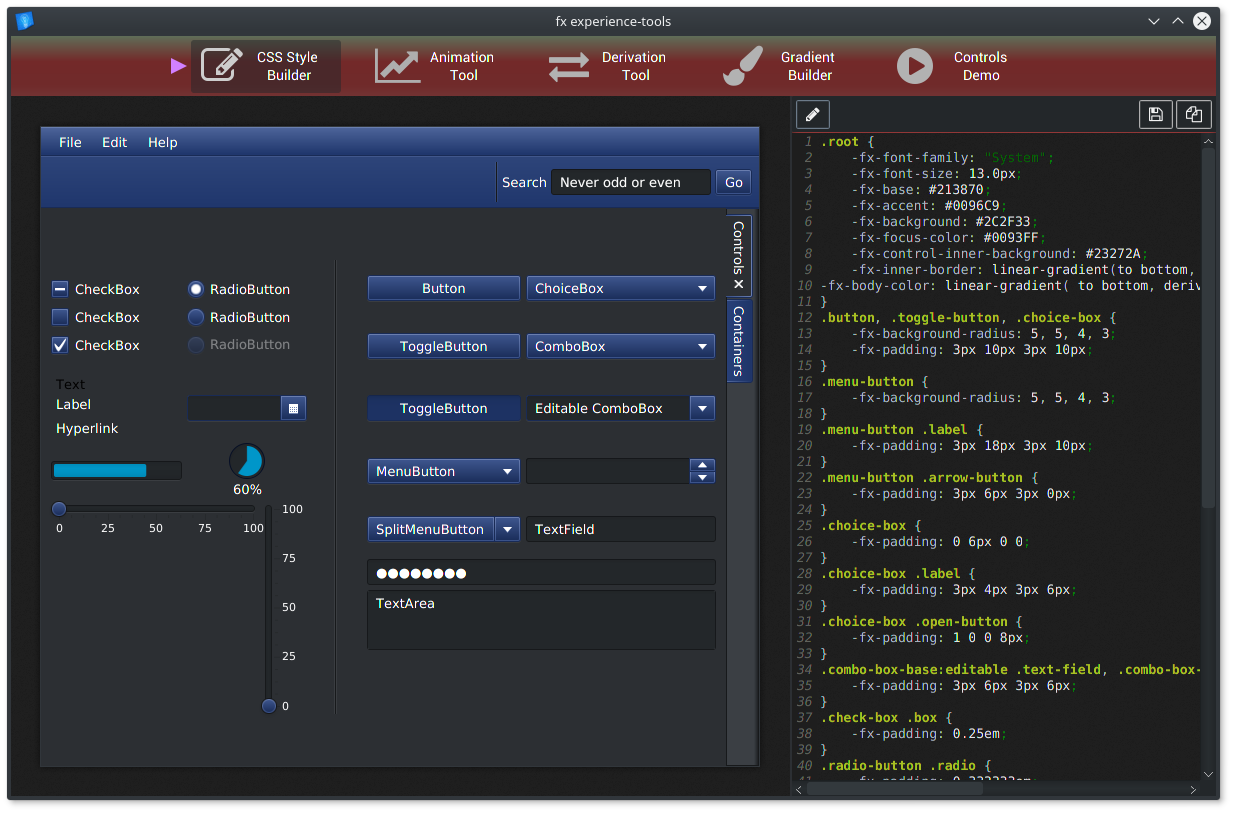
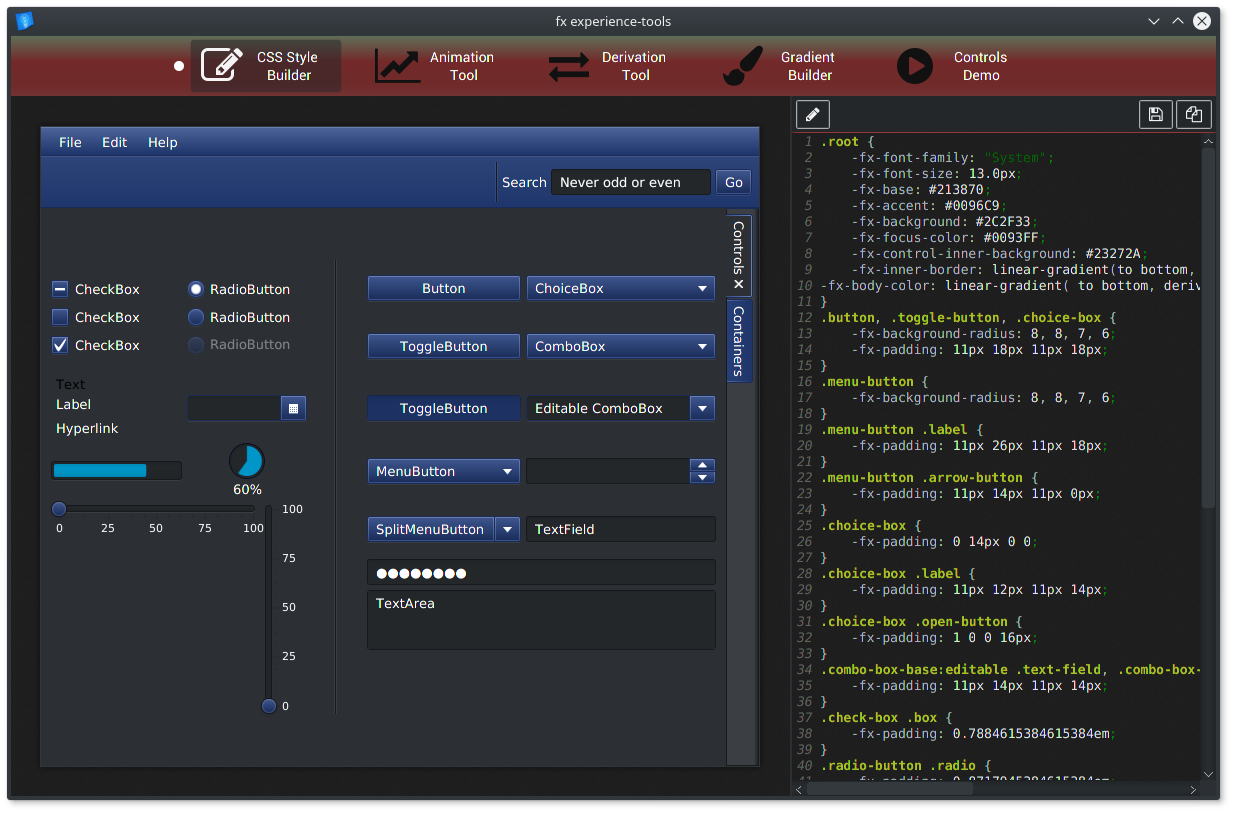
house keeping

diff --git a/FXExperienceTools/src/main/resources/styles/main_dark.css b/FXExperienceTools/src/main/resources/styles/main_dark.css
@@ -113,5 +113,11 @@ different terms and without source code for the larger work.
 .menu-toggle-button:hover, .menu-toggle-button:selected{
     -fx-background-color: rgba(35,39,42, .5);
 }
+.menu-toggle-button:selected .font-awesome-menu-icon,
+.menu-toggle-button:hover .font-awesome-menu-icon {
+    -fx-fill: whitesmoke;
+}
 
-
+.font-awesome-menu-icon {
+    -fx-fill: #111;
+}

diff --git a/FXExperienceTools/src/main/java/com/fxexperience/tools/controller/MainController.java b/FXExperienceTools/src/main/java/com/fxexperience/tools/controller/MainController.java
@@ -10,17 +10,19 @@
 package com.fxexperience.tools.controller;
 
 import com.fxexperience.javafx.controller.AnimationController;
-import com.fxexperience.javafx.fxanimations.FadeInDownBigTransition;
 import com.fxexperience.tools.handler.ViewHandler;
 import com.fxexperience.tools.util.AppPaths;
-import javafx.animation.*;
+import javafx.animation.Interpolator;
+import javafx.animation.KeyFrame;
+import javafx.animation.KeyValue;
+import javafx.animation.Timeline;
 import javafx.application.Platform;
+import javafx.beans.property.SimpleIntegerProperty;
 import javafx.event.ActionEvent;
 import javafx.event.EventHandler;
 import javafx.fxml.FXML;
 import javafx.fxml.Initializable;
 import javafx.scene.Node;
-import javafx.scene.control.CheckMenuItem;
 import javafx.scene.control.ToggleButton;
 import javafx.scene.control.ToggleGroup;
 import javafx.scene.layout.AnchorPane;
@@ -34,24 +36,22 @@ import java.util.ResourceBundle;
 
 public final class MainController extends AbstractController implements Initializable {
 
-    public enum Tool {
+    public enum ToolController {
         CSS, SPLINE, DERIVATION, GRADIENT, ANIMATION
     }
 
     // Custom interpolator for the slide animation transition
-    private static final Interpolator INTERPOLATOR = Interpolator.SPLINE(0.4829, 0.5709, 0.6803, 0.9928);
+    private static final Interpolator INTERPOLATOR =
+            Interpolator.SPLINE(0.4829, 0.5709, 0.6803, 0.9928);
 
     // Holds the tools to be displayed
     private final HashMap<Integer, Node> tools = new HashMap<>();
 
-    @FXML private StackPane toolBar;
-    @FXML private StackPane arrowPane;
+    @FXML private StackPane selectedIconBullet;
 
-    @FXML private ToggleButton styleToggle;
-    @FXML private ToggleButton splineToggle;
-    @FXML private ToggleButton derivedColorToggle;
-    @FXML private ToggleButton gradientBuilderToggle;
-    @FXML private ToggleButton animationToggle;
+    @FXML private ToggleGroup menuToggleGroup;
+    @FXML private ToggleButton styleToggle, splineToggle, derivedColorToggle,
+            gradientBuilderToggle, animationToggle;
 
     @FXML private BorderPane rootBorderPane;
     @FXML private AnchorPane rootAnchorPane;
@@ -68,8 +68,9 @@ public final class MainController extends AbstractController implements Initiali
 
     private Timeline timeline;
 
-    private int currentToolIndex;
-    private Tool nextTool;
+    private SimpleIntegerProperty currentToolIndex =
+            new SimpleIntegerProperty(this, "currentToolIndex");
+    private ToolController nextToolController;
 
     public MainController(ViewHandler viewHandler) {
        super(viewHandler);
@@ -83,32 +84,7 @@ public final class MainController extends AbstractController implements Initiali
     public void initialize(URL url, ResourceBundle rb) {
 
         initializeTools();
-        initializeToggles();
         initializeLayout();
-    }
-
-    // Creates toggle group to bind color icon effect
-    private void initializeToggles() {
-        ToggleGroup toggleGroup = new ToggleGroup();
-        toggleGroup.getToggles().addAll(styleToggle, splineToggle, derivedColorToggle,
-                gradientBuilderToggle, animationToggle);
-        toggleGroup.getToggles().forEach((t) -> setIconBinding((ToggleButton) t));
-        toggleGroup.selectToggle(styleToggle);
-    }
-
-    // Adjusts the color of the toogle icons upon selection
-    private void setIconBinding(ToggleButton toggle) {
-//        ImageView icon = (ImageView) toggle.getGraphic();
-//        icon.effectProperty().bind(new ObjectBinding<Effect>() {
-//            {
-//                bind(toggle.selectedProperty());
-//            }
-//
-//            @Override
-//            protected Effect computeValue() {
-//                return toggle.isSelected() ? null : new ColorAdjust(0, -1, 0, 0);
-//            }
-//        });
     }
 
     private void initializeTools() {
@@ -118,11 +94,11 @@ public final class MainController extends AbstractController implements Initiali
         gradientController = new GradientController();
         animationController = new AnimationController();
 
-        tools.put(Tool.CSS.ordinal(), StyleController);
-        tools.put(Tool.SPLINE.ordinal(), splineController);
-        tools.put(Tool.DERIVATION.ordinal(), derivationController);
-        tools.put(Tool.GRADIENT.ordinal(), gradientController);
-        tools.put(Tool.ANIMATION.ordinal(), animationController);
+        tools.put(ToolController.CSS.ordinal(), StyleController);
+        tools.put(ToolController.SPLINE.ordinal(), splineController);
+        tools.put(ToolController.DERIVATION.ordinal(), derivationController);
+        tools.put(ToolController.GRADIENT.ordinal(), gradientController);
+        tools.put(ToolController.ANIMATION.ordinal(), animationController);
 
         currentPane = new StackPane();
         sparePane = new StackPane();
@@ -130,36 +106,36 @@ public final class MainController extends AbstractController implements Initiali
 
         currentPane.getChildren().add(StyleController);
         rootContainer.getChildren().addAll(currentPane, sparePane);
-        currentToolIndex = Tool.CSS.ordinal();
+        currentToolIndex.set(ToolController.CSS.ordinal());
     }
 
-    // Displays a new tool and applies the slide transitions
-    private void setTool(Tool tool) {
+    // Displays a new toolController and applies the slide transitions
+    private void setTool(ToolController toolController) {
 
         // check if existing animation running
         if (timeline != null) {
-            nextTool = tool;
-            timeline.setRate(4);
+            nextToolController = toolController;
+            timeline.setRate(5);
             return;
         } else {
-            nextTool = null;
+            nextToolController = null;
         }
 
-        // stop spline tool animations
-        if (tools.get(currentToolIndex) instanceof SplineController) {
+        // stop spline toolController animations
+        if (tools.get(currentToolIndex.get()) instanceof SplineController) {
            splineController.stopAnimations();
         }
 
         // load new content
-        sparePane.getChildren().setAll(tools.get(tool.ordinal()));
+        sparePane.getChildren().setAll(tools.get(toolController.ordinal()));
         sparePane.setCache(true);
         currentPane.setCache(true);
 
         // wait one pulse then animate
         Platform.runLater(() -> {
             // animate switch
-            if (tool.ordinal() > currentToolIndex) { // animate from bottom
-                currentToolIndex = tool.ordinal();
+            if (toolController.ordinal() > currentToolIndex.get()) { // animate from bottom
+                currentToolIndex.set(toolController.ordinal());
                 sparePane.setTranslateY(rootContainer.getHeight());
                 sparePane.setVisible(true);
                 timeline = new Timeline(
@@ -173,7 +149,7 @@ public final class MainController extends AbstractController implements Initiali
                 timeline.play();
 
             } else { // animate from top
-                currentToolIndex = tool.ordinal();
+                currentToolIndex.set(toolController.ordinal());
                 sparePane.setTranslateY(-rootContainer.getHeight());
                 sparePane.setVisible(true);
                 timeline = new Timeline(
@@ -205,51 +181,24 @@ public final class MainController extends AbstractController implements Initiali
         sparePane.getChildren().clear();
 
         // start spline tool animations
-        if (tools.get(currentToolIndex) instanceof SplineController) {
+        if (tools.get(currentToolIndex.get()) instanceof SplineController) {
            splineController.startAnimations();
         }
 
         // Check if we have a animation waiting
-        if (nextTool != null) {
-           setTool(nextTool);
+        if (nextToolController != null) {
+           setTool(nextToolController);
         }
     };
 
     private void initializeLayout() {
-        arrowPane.setManaged(false);
-        arrowPane.setLayoutY(30);
-        setArrowPane(styleToggle);
+        selectedIconBullet.setManaged(false);
+        selectedIconBullet.setLayoutY(30);
+        setSelectedIconBullet(styleToggle);
     }
 
-    private void setArrowPane(Node toggleButton) {
-        arrowPane.layoutXProperty().bind(toggleButton.layoutXProperty().subtract(12));
-    }
-
-    private void displayStatusAlert(String textMessage) {
-        double prefWidth = rootContainer.getLayoutBounds().getWidth();
-
-        AlertController alert = new AlertController(textMessage);
-        alert.setOpacity(0);
-
-       alert.setPanelWidth(prefWidth, currentToolIndex);
-
-       rootContainer.layoutXProperty().addListener((observable, oldValue, newValue) ->
-               alert.setPanelWidth(newValue.doubleValue(), currentToolIndex));
-
-        alert.setTranslateY(rootContainer.getLayoutY()+alert.getPrefHeight());
-
-        AnchorPane.setTopAnchor(alert, 0d);
-        rootAnchorPane.getChildren().add(alert);
-
-        new FadeInDownBigTransition(alert).play();
-        removeAlert(alert);
-    }
-
-    private void removeAlert(Node alert) {
-        PauseTransition pauseTransition = new PauseTransition();
-        pauseTransition.setDuration(Duration.seconds(4.5));
-        pauseTransition.play();
-        pauseTransition.setOnFinished((ActionEvent t) -> rootAnchorPane.getChildren().remove(alert));
+    private void setSelectedIconBullet(Node toggleButton) {
+        selectedIconBullet.layoutXProperty().bind(toggleButton.layoutXProperty().subtract(12));
     }
 
     private void loadStyle(boolean isDarkThemeSelected) {
@@ -271,8 +220,8 @@ public final class MainController extends AbstractController implements Initiali
         if (!styleToggle.isSelected()) {
             styleToggle.setSelected(true);
         } else {
-            setTool(Tool.CSS);
-            setArrowPane(styleToggle);
+            setTool(ToolController.CSS);
+            setSelectedIconBullet(styleToggle);
         }
     }
 
@@ -281,8 +230,8 @@ public final class MainController extends AbstractController implements Initiali
         if (!splineToggle.isSelected()) {
             splineToggle.setSelected(true);
         } else {
-            setTool(Tool.SPLINE);
-            setArrowPane(splineToggle);
+            setTool(ToolController.SPLINE);
+            setSelectedIconBullet(splineToggle);
         }
     }
 
@@ -291,8 +240,8 @@ public final class MainController extends AbstractController implements Initiali
         if (!derivedColorToggle.isSelected()) {
             derivedColorToggle.setSelected(true);
         } else {
-            setTool(Tool.DERIVATION);
-            setArrowPane(derivedColorToggle);
+            setTool(ToolController.DERIVATION);
+            setSelectedIconBullet(derivedColorToggle);
         }
     }
     @FXML private void gradientToggleAction(ActionEvent event) {
@@ -300,8 +249,8 @@ public final class MainController extends AbstractController implements Initiali
         if (!gradientBuilderToggle.isSelected()) {
             gradientBuilderToggle.setSelected(true);
         } else {
-            setTool(Tool.GRADIENT);
-            setArrowPane(gradientBuilderToggle);
+            setTool(ToolController.GRADIENT);
+            setSelectedIconBullet(gradientBuilderToggle);
         }
     }
 
@@ -310,8 +259,8 @@ public final class MainController extends AbstractController implements Initiali
         if (!animationToggle.isSelected()) {
             animationToggle.setSelected(true);
         } else {
-            setTool(Tool.ANIMATION);
-            setArrowPane(animationToggle);
+            setTool(ToolController.ANIMATION);
+            setSelectedIconBullet(animationToggle);
         }
     }
 

diff --git a/FXExperienceTools/src/main/java/com/fxexperience/tools/controller/SplineController.java b/FXExperienceTools/src/main/java/com/fxexperience/tools/controller/SplineController.java
@@ -58,7 +58,7 @@ public class SplineController extends BorderPane {
             loader.load();
             loadSpineEditor();
         } catch (IOException ex) {
-            Logger.getLogger(PreviewController.class.getName()).log(Level.SEVERE, null, ex);
+            Logger.getLogger(SplineController.class.getName()).log(Level.SEVERE, null, ex);
         }
     }
 
@@ -118,9 +118,8 @@ public class SplineController extends BorderPane {
     }
 
     private void updateAnimation() {
-        if(timeline != null) {
-            timeline.stop();
-        }
+       if (timeline != null) timeline.stop();
+
 
         Interpolator spline = Interpolator.SPLINE(SplineEditor.getControlPoint1x(),
                 SplineEditor.getControlPoint1y(),

diff --git a/README.md b/README.md
@@ -15,8 +15,8 @@ blog](http://fxexperience.com/).
 	- FXControls animation demos
 2. FXExperience-Controls
 	- Lots of animation effects for javafx controls.
-	- Scenebuilder's colorpicker tool (Modified).
-	- Jasper's original colorpicker tool.
+	- Scenebuilder's colorpicker toolController (Modified).
+	- Jasper's original colorpicker toolController.
 	
 			
 For more info about this app and other JavaFX features please
